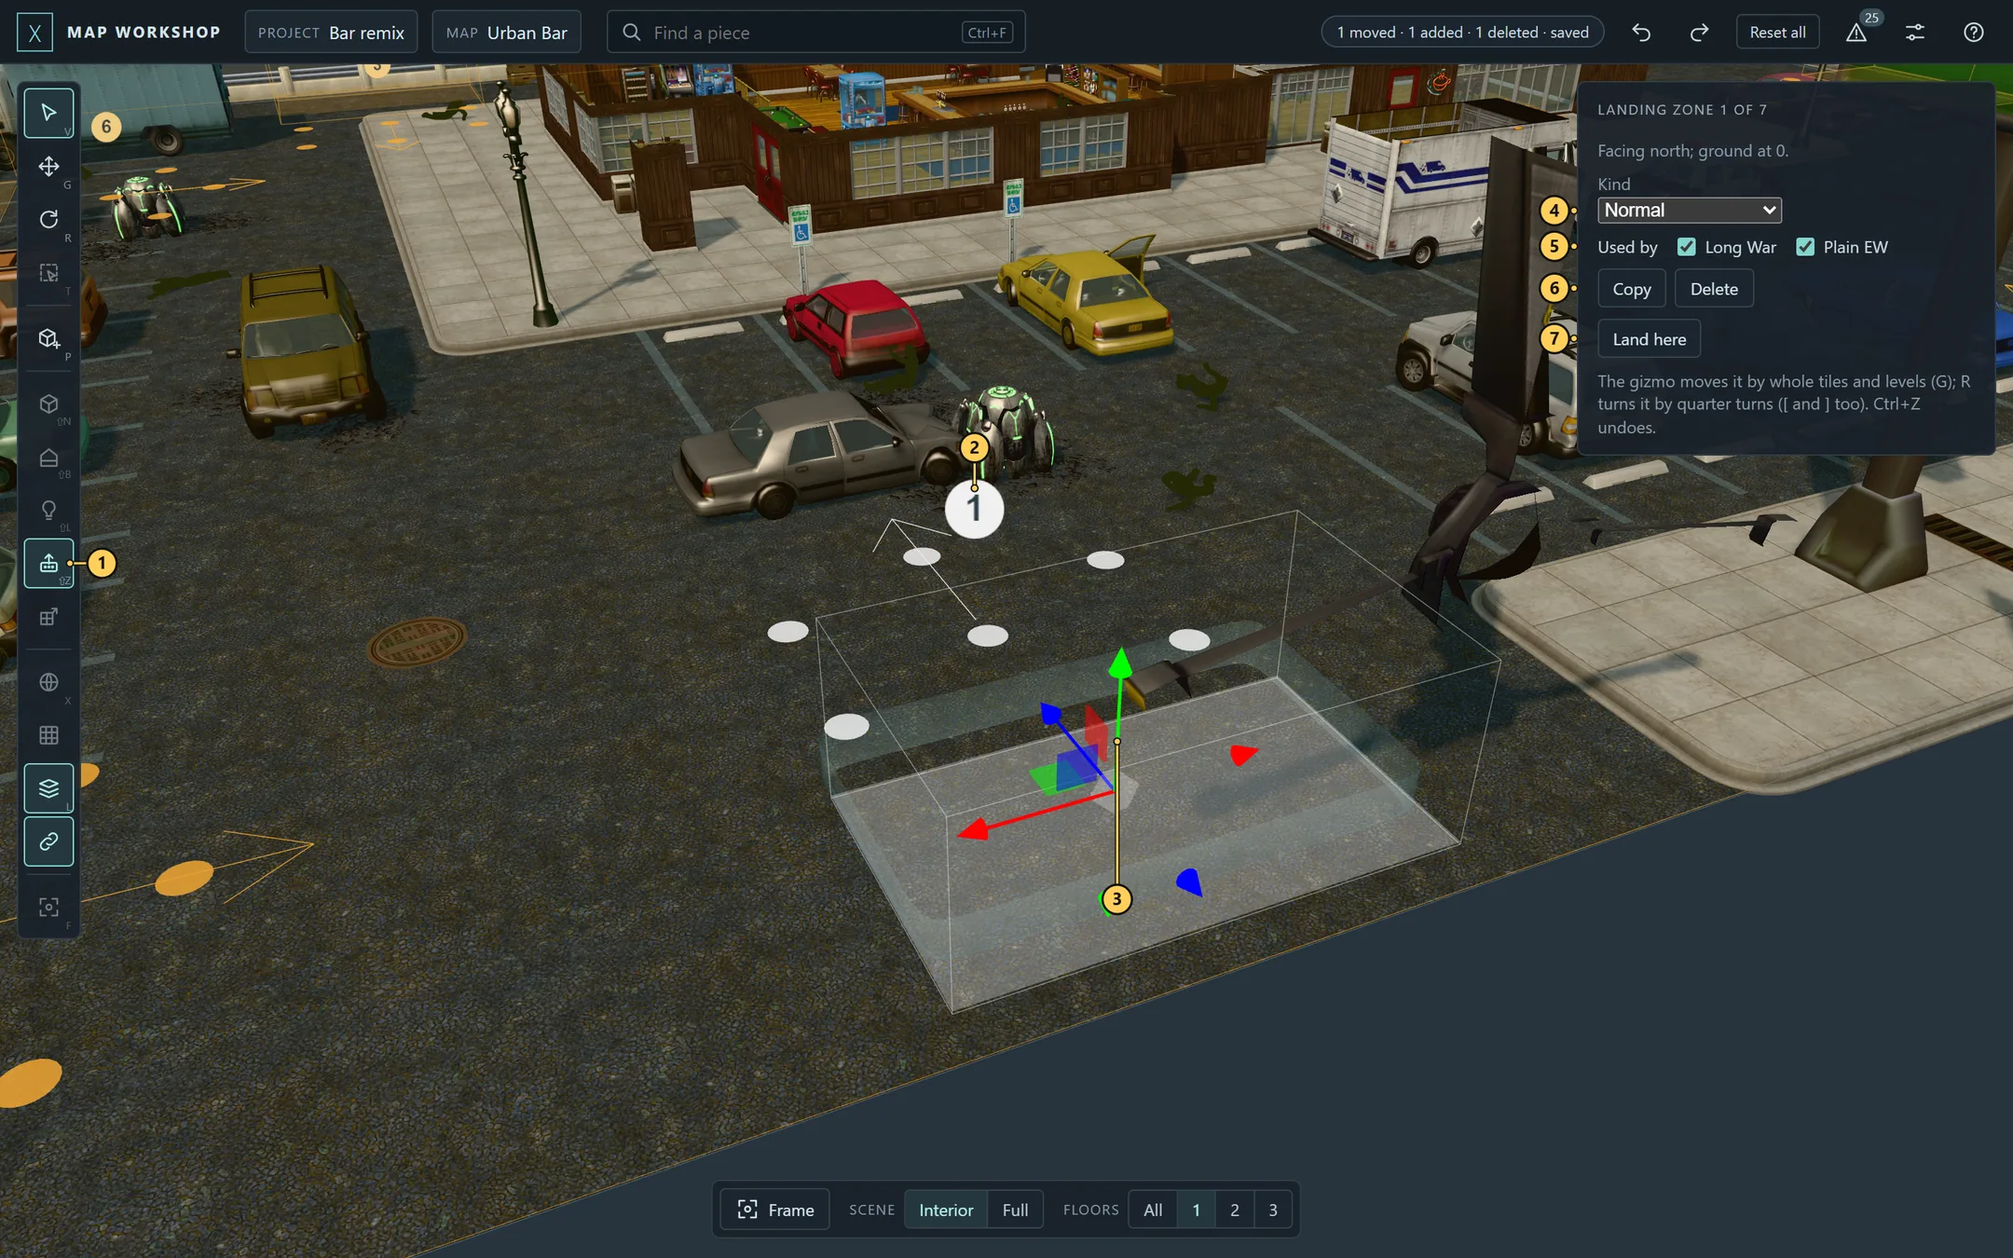
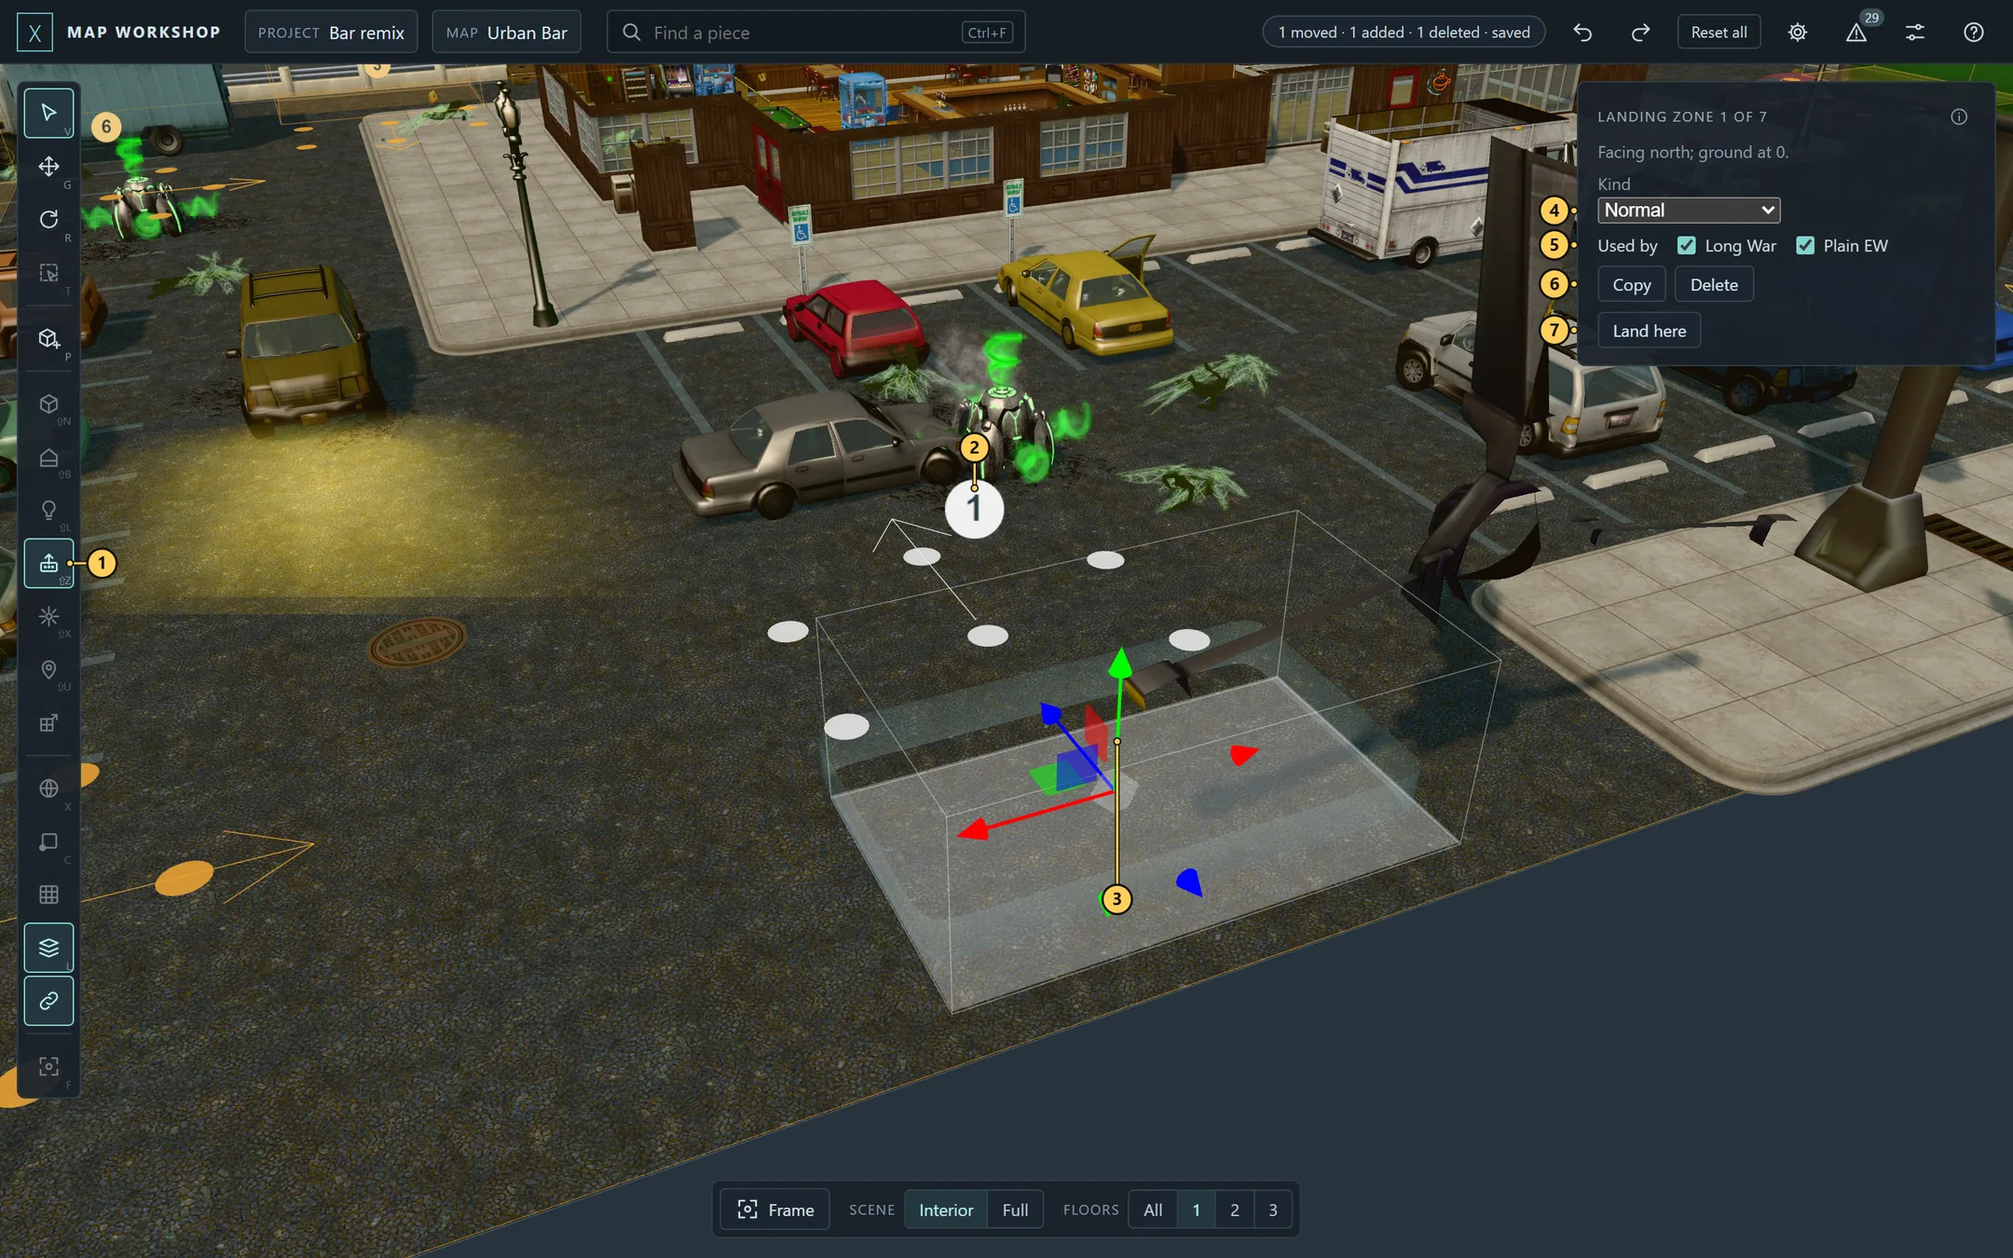
Guide: the streamlined panels in its text and 17 retaken pictures; the Buildings view's count line reworded

diff --git a/tools/release/guide/guide.html b/tools/release/guide/guide.html
@@ -546,29 +546,37 @@ footer { margin-top: 70px; padding-top: 18px; border-top: 1px solid var(--line);
 <h3 id="piece">Piece panel</h3>
 <p>The panel on the right appears when something is selected.</p>
 <div class="split">
-  <figure><img src="shots/piece-panel.webp" width="348" height="939" alt="The piece panel for a copied claw machine, its parts numbered"></figure>
+  <figure><img src="shots/piece-panel.webp" width="348" height="574" alt="The piece panel for a copied claw machine, its parts numbered"></figure>
   <ol class="legend">
     <li data-n="1"><b>What it is:</b> the piece's name, its kind and its map, then chips with what you should know
       about it (listed below).</li>
-    <li data-n="2"><b>Copy</b> (<kbd>Ctrl</kbd>+<kbd>C</kbd>) and <b>Delete</b> (<kbd>Del</kbd>). After Copy,
-      <kbd>Ctrl</kbd>+<kbd>V</kbd> shows the copy at the cursor and a click places it. Beside them,
-      <b><a href="#select-kind">Select all of a kind</a></b>.</li>
+    <li data-n="2"><b>The buttons</b>, each named when the pointer rests on it: <b>Copy</b>
+      (<kbd>Ctrl</kbd>+<kbd>C</kbd>; <kbd>Ctrl</kbd>+<kbd>V</kbd> then shows the copy at the cursor and a click places
+      it), <b>Delete</b> (<kbd>Del</kbd>), <b><a href="#select-kind">Select all of a kind</a></b> with its count, and
+      <b>Reset piece</b>, which puts the selected pieces back where the map has them. At the right,
+      <b>Save as prefab…</b> saves what is selected as a <a href="#prefabs">prefab</a>.</li>
     <li data-n="3"><b><a href="#flags">Flags</a>:</b> what the game does with the piece (walking, cover, sight,
-      floor, the mouse), to change.</li>
-    <li data-n="4"><b>Position</b> in game units. Type a value and press <kbd>Enter</kbd>.</li>
-    <li data-n="5"><b>Rotation</b> in degrees: pitch, yaw (the turn about the vertical) and roll.</li>
-    <li data-n="6"><b>Reset piece</b> puts the selected pieces back where the map has them. <b>Save as prefab…</b>
-      saves what is selected as a <a href="#prefabs">prefab</a>.</li>
-    <li data-n="7"><b>Source details</b> unfolds the piece's records: its actor and mesh, whether it can be destroyed
+      floor, the mouse), to change. Folded, its line says whether they are as the map has them.</li>
+    <li data-n="4"><b>Place: its position</b> in game units. Type a value and press <kbd>Enter</kbd>.</li>
+    <li data-n="5"><b>Its rotation</b> in degrees: pitch, yaw (the turn about the vertical) and roll.</li>
+    <li data-n="6"><b>Source</b> unfolds the piece's records: its actor and mesh, whether it can be destroyed
       and its health, which building floor it belongs to, and what moves with it.</li>
-    <li data-n="8"><b>Copy full paths</b> copies the actor, mesh and material paths, for a bug report or for your own notes.</li>
+    <li data-n="7"><b>Copy full paths</b> copies the actor, mesh and material paths, for a bug report or for your own notes.</li>
   </ol>
 </div>
+<ul>
+  <li><b>Sections fold.</b> A click on a section's name (Group, Align, Flags, Place, Source) folds it to one line that
+    says what it holds, or opens it again. The panel remembers how you left each.</li>
+  <li><b>The ⓘ beside a section's name</b> shows or hides its explanations: how its handles work, what an option
+    does, why something is greyed. What a thing is, and warnings, are always shown.</li>
+  <li><b>A piece with settings of its own</b> (a made wall, floor or ground, a room, a light, a cover block, a piece
+    that can be broken) has its section first, above the others.</li>
+</ul>
 <h4>The chips</h4>
 <table class="wrapfirst">
   <tr><th>Chip</th><th>What it means</th></tr>
   <tr><td>Moves with 2 other pieces</td><td>Linked pieces: they were placed together and move together (a car's body and glass).</td></tr>
-  <tr><td>Added copy</td><td>A piece you added. Source details names the piece it copies.</td></tr>
+  <tr><td>Added copy</td><td>A piece you added. Source names the piece it copies.</td></tr>
   <tr><td>Recipe snap</td><td>It moves only by whole tiles and quarter turns. <a href="#rules">Why</a></td></tr>
   <tr><td>Group of 2</td><td>It is in a <a href="#groups">group</a>.</td></tr>
   <tr><td>Glows · 3 lights</td><td>A glowing piece: its glow lights the map, and moves, copies and goes with it.</td></tr>
@@ -581,15 +589,16 @@ footer { margin-top: 70px; padding-top: 18px; border-top: 1px solid var(--line);
 </table>
 
 <h4 id="flags">Flags</h4>
-<p>The <b class="ui">Flags</b> group says what the game does with the piece, and lets you change it: a wall that units
-  walk and see through, a sign the mouse never picks, a fence that gives no cover.</p>
+<p>The <b class="ui">Flags</b> section says what the game does with the piece, and lets you change it: a wall that units
+  walk and see through, a sign the mouse never picks, a fence that gives no cover. It is folded until you click its
+  name; its line says <i>as the map has them</i>, or how many you changed.</p>
 <div class="split">
-  <figure><img src="shots/flags.webp" width="353" height="393" alt="The Flags group for the Bar's six dumpsters, Blocks sight turned off for all of them"></figure>
+  <figure><img src="shots/flags.webp" width="353" height="486" alt="The Flags group for the Bar's six dumpsters, Blocks sight turned off for all of them"></figure>
   <ol class="legend">
     <li data-n="1"><b>The Flags chip:</b> one of the piece's flags is off, or <i>changed</i> by you.</li>
     <li data-n="2"><b>Select all of a kind</b> picked every dumpster of the map: six.</li>
-    <li data-n="3"><b>The five flags,</b> each with its state for the pieces picked (here 6 pieces), and under it
-      what limits it.</li>
+    <li data-n="3"><b>The five flags,</b> each with its state for the pieces picked (here 6 pieces). A flag marked ⓘ
+      has something that limits it: point at it and the line under the rows says what.</li>
     <li data-n="4"><b>A flag you changed</b> has a dot after its state: Blocks sight turned off for all six, so units
       see over them.</li>
     <li data-n="5"><b>Reset flags</b> puts the map's back.</li>
@@ -611,7 +620,7 @@ footer { margin-top: 70px; padding-top: 18px; border-top: 1px solid var(--line);
     step, and the edit count says how many pieces have flags changed. <b class="ui">Reset flags</b> puts the map's
     back.</li>
   <li><b>What a row says.</b> Each row shows on, off, partly on or mixed (picked pieces that differ), and what limits
-    it. A row is greyed, with the reason, where the game never reads that flag for such a piece: a plain static mesh
+    it (in the line under the rows, for the row the pointer is on). A row is greyed, with the reason there, where the game never reads that flag for such a piece: a plain static mesh
     has only Floor, a door's mouse is its own, a ladder gives no cover by the game's usual test.</li>
   <li><b>Partly on</b> is a prop the map set to be skipped by the pathing sweep: its tiles are still blocked where it
     stands, but walking and sight through it are not tested. Turning Gives cover or Blocks sight on opens that, and
@@ -629,8 +638,8 @@ footer { margin-top: 70px; padding-top: 18px; border-top: 1px solid var(--line);
 </ul>
 
 <h4 id="select-kind">Select all of a kind</h4>
-<p><b class="ui">Select all TV_BarRow (5)</b>, beside Copy and Delete, selects every piece drawn with the same mesh as
-  the picked one, so you can change all of a kind at once, their flags for one. <kbd>Shift</kbd>+click adds them to
+<p>The <b class="ui">Select all</b> button, beside Copy and Delete (four squares and a count; its tooltip names the
+  kind, as in <i>Select all TV_BarRow</i>), selects every piece drawn with the same mesh as the picked one, so you can change all of a kind at once, their flags for one. <kbd>Shift</kbd>+click adds them to
   the selection. With a <a href="#boxselect">box</a> drawn, it takes only those whose middle is inside the box.
   Hidden and deleted pieces, a mission's or Long War Rebalance's pieces, cover blocks, lights and floor boxes are left
   out. Selecting changes nothing in the project and is not an undo step. A picked effect or sound has a Select all of
@@ -678,7 +687,7 @@ footer { margin-top: 70px; padding-top: 18px; border-top: 1px solid var(--line);
 <h3 id="groups">Groups and Align</h3>
 <p>With two or more pieces selected, the piece panel gains two sections.</p>
 <div class="split">
-  <figure><img src="shots/group.webp" width="350" height="164" alt="The group section of the piece panel, for a group of two kegs"></figure>
+  <figure><img src="shots/group.webp" width="348" height="121" alt="The group section of the piece panel, for a group of two kegs"></figure>
   <ol class="legend">
     <li data-n="1"><b>The group.</b> <b class="ui">Group</b> (<kbd>Ctrl</kbd>+<kbd>G</kbd>) joins the selected
       pieces. A group selects and moves as one: picking any of its pieces picks them all. It shows in gold.</li>
@@ -727,13 +736,13 @@ footer { margin-top: 70px; padding-top: 18px; border-top: 1px solid var(--line);
     wall is left. One breakable piece is enough, and nothing else destroys the block. An invisible floor stays.</li>
 </ul>
 <div class="split">
-  <figure><img src="shots/align.webp" width="350" height="165" alt="The Align section of the piece panel"></figure>
+  <figure><img src="shots/align.webp" width="348" height="164" alt="The Align section of the piece panel"></figure>
   <ol class="legend">
     <li data-n="1"><b>Target:</b> the piece or group the others line up with. It is the last one you picked unless you
       choose another here. A white box marks it in the view.</li>
     <li data-n="2"><b>Axes and edge:</b> tick any of X, Y (across the floor) and Z (up), choose what lines up (centres,
       low edges or high edges), then <b class="ui">Align</b>. The others move; nothing turns. It is one undo step.</li>
-    <li data-n="3"><b>What will happen</b>, in words.</li>
+    <li data-n="3"><b>What will happen</b>, in words: shown by the section's ⓘ.</li>
   </ol>
 </div>
 
@@ -899,10 +908,11 @@ footer { margin-top: 70px; padding-top: 18px; border-top: 1px solid var(--line);
     <li data-n="8"><b>How many</b> prefabs the library holds. Hover it to see the folder they are kept in.</li>
   </ol>
 </div>
-<p><b>To save one:</b> select what should be in it, then press <b class="ui">Save as prefab…</b> in the piece panel
+<p><b>To save one:</b> select what should be in it, then press <b class="ui">Save as prefab…</b> at the top of the piece panel
   (or <b class="ui">Save selection…</b> here) and give it a name. <a href="#boxselect">Box select</a> takes a whole
   building at once; with the Normal button's <a href="#normal-view">switches</a> on it takes the lights and the
-  building's floor boxes too. The window says what goes in, and lists anything that can't.</p>
+  building's floor boxes too. The window says what goes in, and lists anything that can't. While it saves, a
+  bar counts the pieces copied to the library (the first save of a map's pieces takes a while).</p>
 <ul>
   <li><b>What goes in:</b> the map's own pieces and the ones you added (pieces from other maps too), cover blocks and
     invisible floors, lights, effects, sounds and lens flares (with their values), the groups among them, and
@@ -1102,7 +1112,8 @@ footer { margin-top: 70px; padding-top: 18px; border-top: 1px solid var(--line);
   <li data-n="2"><b>The size handle:</b> drag it to make the effect larger or smaller, from 1/64 to 64 times its size
     in the map. The box and the drawing follow.</li>
   <li data-n="3"><b>Its chips</b>, here <b>Placed by a prefab</b>.</li>
-  <li data-n="4"><b>What it plays:</b> its particle system and emitters, how it starts, its size and its box.</li>
+  <li data-n="4"><b>About:</b> what it plays (its particle system and emitters), how it starts, its size and its
+    box. Folded, the line says the first of these.</li>
   <li data-n="5"><b>Select all</b> of its particle system: 21 of these on the Bar.</li>
   <li data-n="6"><b>Starts with the mission:</b> unticked, the effect is in the map but switched off until the map's
     script turns it on.</li>
@@ -1554,8 +1565,8 @@ footer { margin-top: 70px; padding-top: 18px; border-top: 1px solid var(--line);
   <li data-n="2"><b>The picked pod</b> with its arrows: drag them to move it by whole tiles and levels.</li>
   <li data-n="3"><b>A pod</b> (an orange ring): a place the game can deploy a group of aliens at.</li>
   <li data-n="4"><b>A Meld point</b> (a green dot): a place a Meld canister can stand.</li>
-  <li data-n="5"><b>What it is:</b> its values, what uses it (the map's script, a wave, or nothing found), what the
-    game does with it, and whether it stands where the map has it.</li>
+  <li data-n="5"><b>About:</b> its values, what uses it (the map's script, a wave, or nothing found), what the
+    game does with it, and whether it stands where the map has it. A click on About folds it.</li>
   <li data-n="6"><b class="ui">Copy</b> (<kbd>Ctrl</kbd>+<kbd>D</kbd>) and <b class="ui">Delete</b>
     (<kbd>Delete</kbd>).</li>
   <li data-n="7"><b>Its values:</b> a pod's <b class="ui">Commander's place</b>, <b class="ui">Secondary</b> and

diff --git a/tools/viewer/web/app.js b/tools/viewer/web/app.js
@@ -11079,7 +11079,7 @@ function volumePanel() {
   const targets = pickedVolumes(), one = targets.length === 1 ? targets[0] : null, grid = volumeGrid();
   const live = liveVolumes().length, ownCount = (data?.buildings ?? []).filter(b => !mapEditable(b) && b.floors?.length).length;
   $('volumeHow').textContent = live && volumesOn ? 'Click a box to select it; the gizmo moves it, the white dots stretch it.' : '';
-  $('volumeIntro').textContent = live ? `${boxCount(live)} in ${plural(buildings.length, 'building')}${ownCount ? `, ${ownCount} of the map's as it has ${ownCount === 1 ? 'it' : 'them'}` : ''}.`
+  $('volumeIntro').textContent = live ? `${boxCount(live)} in ${plural(buildings.length, 'building')}${ownCount ? `; ${ownCount} more of the map's own, in grey` : ''}.`
     : 'A building is boxes laid over its floors: the game hides the pieces in the upper boxes when a soldier is inside, and cuts the walls down. Draw one with New box.';
   $('volumeOwn').textContent = ownCount ? `${ownCount === 1 ? 'One building of the map stays' : `${ownCount} buildings of the map stay`} as the map has `
     + `${ownCount === 1 ? 'it' : 'them'}, in grey: a van's goes with its van${data.exporterVersion >= 21 ? '' : ' (this export predates editing the map\'s buildings: prepare the map again)'}. `

diff --git a/tools/release/guide/take_shots.py b/tools/release/guide/take_shots.py
@@ -304,13 +304,13 @@ class Shots:
         page = self.page
         page.evaluate('id => { viewer.select(null); viewer.select(id); }', self.copy)
         page.keyboard.press('v')
-        page.evaluate("for (const id of ['sourceDetails', 'flagsBox', 'poseBox']) document.getElementById(id).open = true")
-        page.set_viewport_size(dict(width=WIDTH, height=TALL))      # the panel with its flags is taller than the window
+        # (the folds as a first visit has them, Flags folded and Place open; Source unfolded for its fields)
+        page.evaluate("document.getElementById('sourceDetails').open = true; document.getElementById('poseBox').open = true; document.getElementById('flagsBox').open = false")
+        page.set_viewport_size(dict(width=WIDTH, height=TALL))      # the panel with its source fields is taller than the window
         page.wait_for_timeout(800)
-        rows = [(1, '#details'), (2, '#editCopy'), (3, '#flagsBox .posehead'), (4, '#posX'), (5, '#rotP'), (6, '#editReset'),
-                (7, '#sourceDetails summary'), (8, '#copyPaths')]
+        rows = [(1, '#details'), (2, '#editCopy'), (3, '#flagsBox summary'), (4, '#posX'), (5, '#rotP'), (6, '#sourceDetails summary'), (7, '#copyPaths')]
         self.shot('piece-panel', self.panel_rows('#inspector', rows), clip=self.around('#inspector', pad=(40, 8, 8, 8)))
-        page.evaluate("for (const id of ['sourceDetails', 'flagsBox']) document.getElementById(id).open = false")
+        page.evaluate("document.getElementById('sourceDetails').open = false")
         page.set_viewport_size(dict(width=WIDTH, height=HEIGHT))
         page.wait_for_timeout(500)
 
@@ -391,9 +391,11 @@ class Shots:
         self.shot('group', self.panel_rows('#inspector', rows), clip=self.around('#groupBox', pad=(56, 14, 24, 12)))
         page.evaluate('([id]) => viewer.select(id, true)', [self.id(KEG_C)])
         page.locator('#alignX').check()
+        page.evaluate("document.getElementById('alignBox').classList.add('showhow')")      # (its words, as its info button shows them)
         page.wait_for_timeout(400)
         rows = [(1, '#alignTarget'), (2, '#alignGo'), (3, '#alignText')]
         self.shot('align', self.panel_rows('#inspector', rows), clip=self.around('#alignBox', pad=(56, 14, 24, 12)))
+        page.evaluate("document.getElementById('alignBox').classList.remove('showhow')")
         page.locator('#alignX').uncheck()
         self.select(KEG_A)
         page.keyboard.press('Control+Shift+G')

diff --git a/CHANGELOG.md b/CHANGELOG.md
@@ -8,6 +8,25 @@ Before 5 November 2026 the history is in Git and in the experiment notes.
 
 ## 19 November 2026
 
+- **The guide follows the streamlined panels** (the user; branch `fracturing-wall-poc`, so the published page is as
+  before until main has it).
+  - [guide.html](tools/release/guide/guide.html): the piece panel's legend is the new one (the row of buttons with
+    Save as prefab at its right, Flags folded to a line, Place, Source), with three lines on folding sections, the ⓘ
+    that shows a section's explanations, and a piece's own section standing first. Flags: folded until clicked, the
+    reason for the row under the pointer in one line. Select all of a kind is the button with four squares and a
+    count. The effect panel's and the Spawns panel's sentences are "About". Align's words show with its ⓘ. Saving a
+    prefab counts the pieces copied.
+  - Pictures retaken, 17 ([shots/](tools/release/guide/shots)): piece-panel, flags, group, align (new sizes),
+    window, box-select, cover-blocks, lights, effects, effect-values, buildings-draw, buildings-view, map-grid,
+    landing-zones, spawns, spawns-volume, mission-objects. The others are kept.
+  - [take_shots.py](tools/release/guide/take_shots.py): the piece panel as a first visit has it (Flags folded, Source
+    unfolded), its seven marks; the Flags shot opens the fold; the Align shot shows its words; the effect shot opens
+    About.
+  - [app.js](tools/viewer/web/app.js): the Buildings view's count line reads "12 boxes in 3 buildings; 4 more of
+    the map's own, in grey."
+  - Checked: every shot in one run on a fresh test server, the retaken ones looked at (marks on their controls,
+    nothing personal); `viewer -k guide`, `release` and `repo`. The last release's zip has the earlier guide.
+
 - **Save as prefab in sight, with its progress; the browser checks the panel work left failing** (the user; branch
   `fracturing-wall-poc`).
   - [index.html](tools/viewer/web/index.html), [style.css](tools/viewer/web/style.css): the piece panel's
